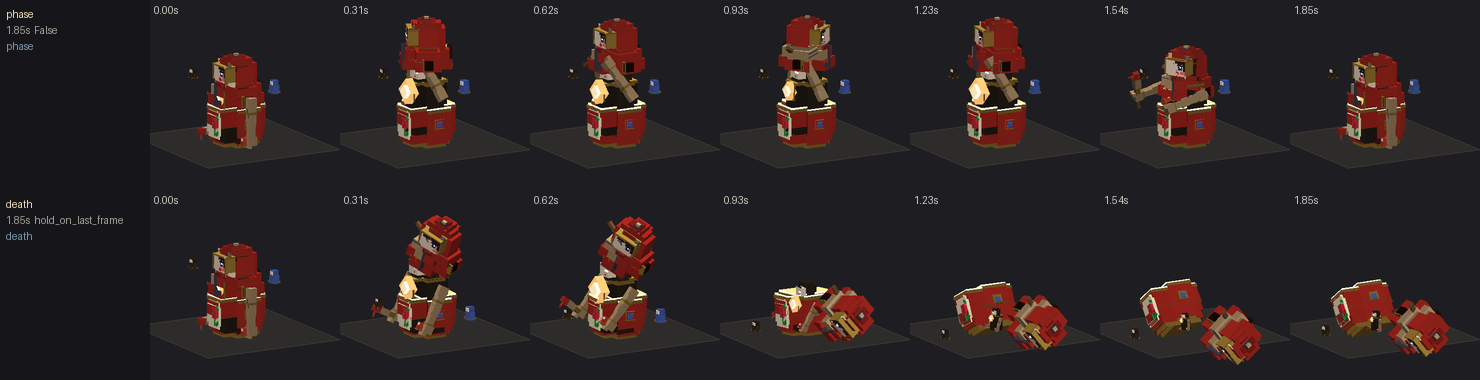
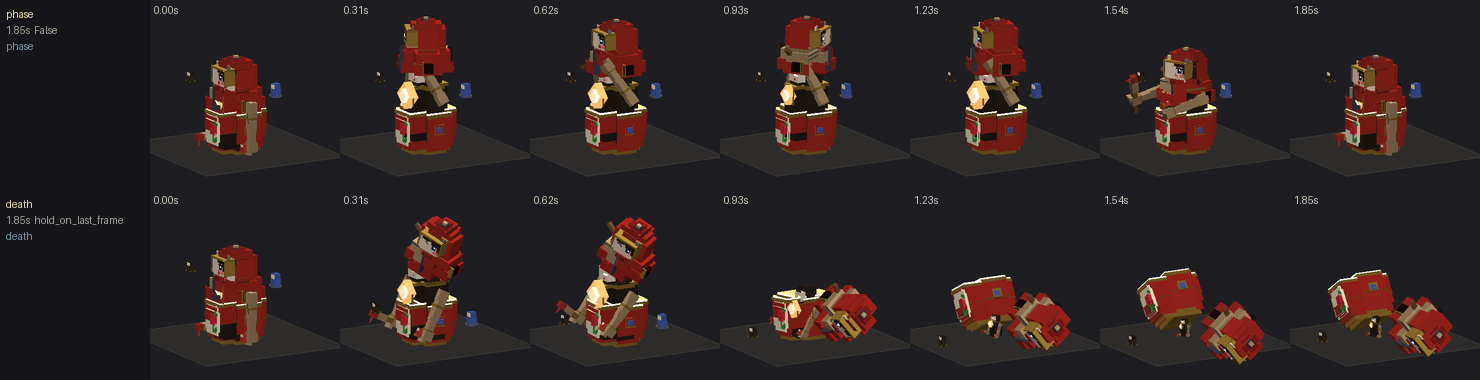
Rest the Unfinished's fallen shells on the ground instead of in it

diff --git a/tools/boss_moves_b.py b/tools/boss_moves_b.py
@@ -559,9 +559,9 @@ def the_unfinished(k, wind, rel):
 
     # ---- Death: a tiny final form; the two halves of the last shell fall away and only a small doll is left
     d = death_clip(k)
-    d.pos("shell_top", (0, 0, 0, 0), (0.3, 4, 20, 2, "cout"), (0.75, 26, -12, 6, "bounce"), (1, 26, -12, 6))
+    d.pos("shell_top", (0, 0, 0, 0), (0.3, 4, 20, 2, "cout"), (0.75, 26, -8, 6, "bounce"), (1, 26, -8, 6))
     d.rot("shell_top", (0, 0, 0, 0), (0.3, 0, 30, -30, "cout"), (0.75, 0, 40, -90, "bounce"), (1, 0, 40, -90))
-    d.pos("shell_bottom", (0, 0, 0, 0), (0.45, 0, 0, 0), (0.8, -10, 0, 2, "bounce"), (1, -10, 0, 2))
+    d.pos("shell_bottom", (0, 0, 0, 0), (0.45, 0, 0, 0), (0.8, -10, 7, 2, "bounce"), (1, -10, 7, 2))
     d.rot("shell_bottom", (0, 0, 0, 0), (0.45, 0, 0, 0), (0.8, 0, 0, 34, "bounce"), (1, 0, 0, 34))
     d.scl("inner", (0, 1), (0.3, 1.0), (0.7, 0.28, "cio"), (1, 0.25))
     d.rot("inner", (0, 0, 0, 0), (0.7, 0, 0, 0), (0.85, 0, 0, 10, "sine"), (1, 0, 0, 0, "sine"))
